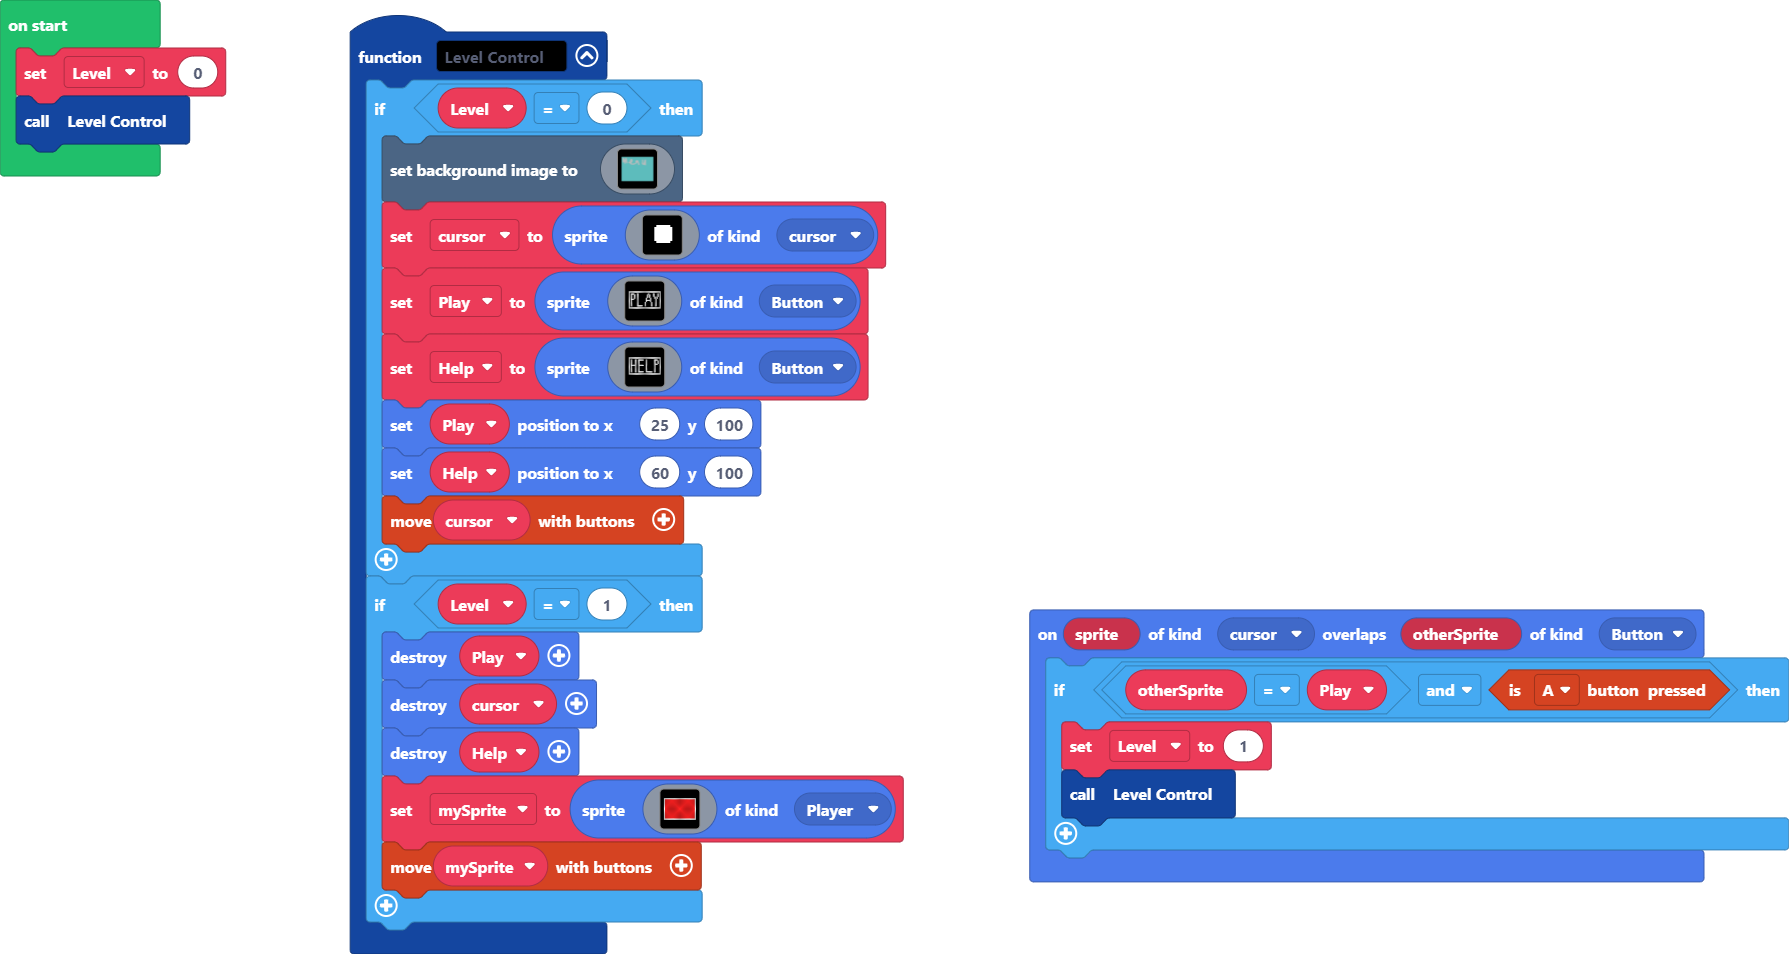
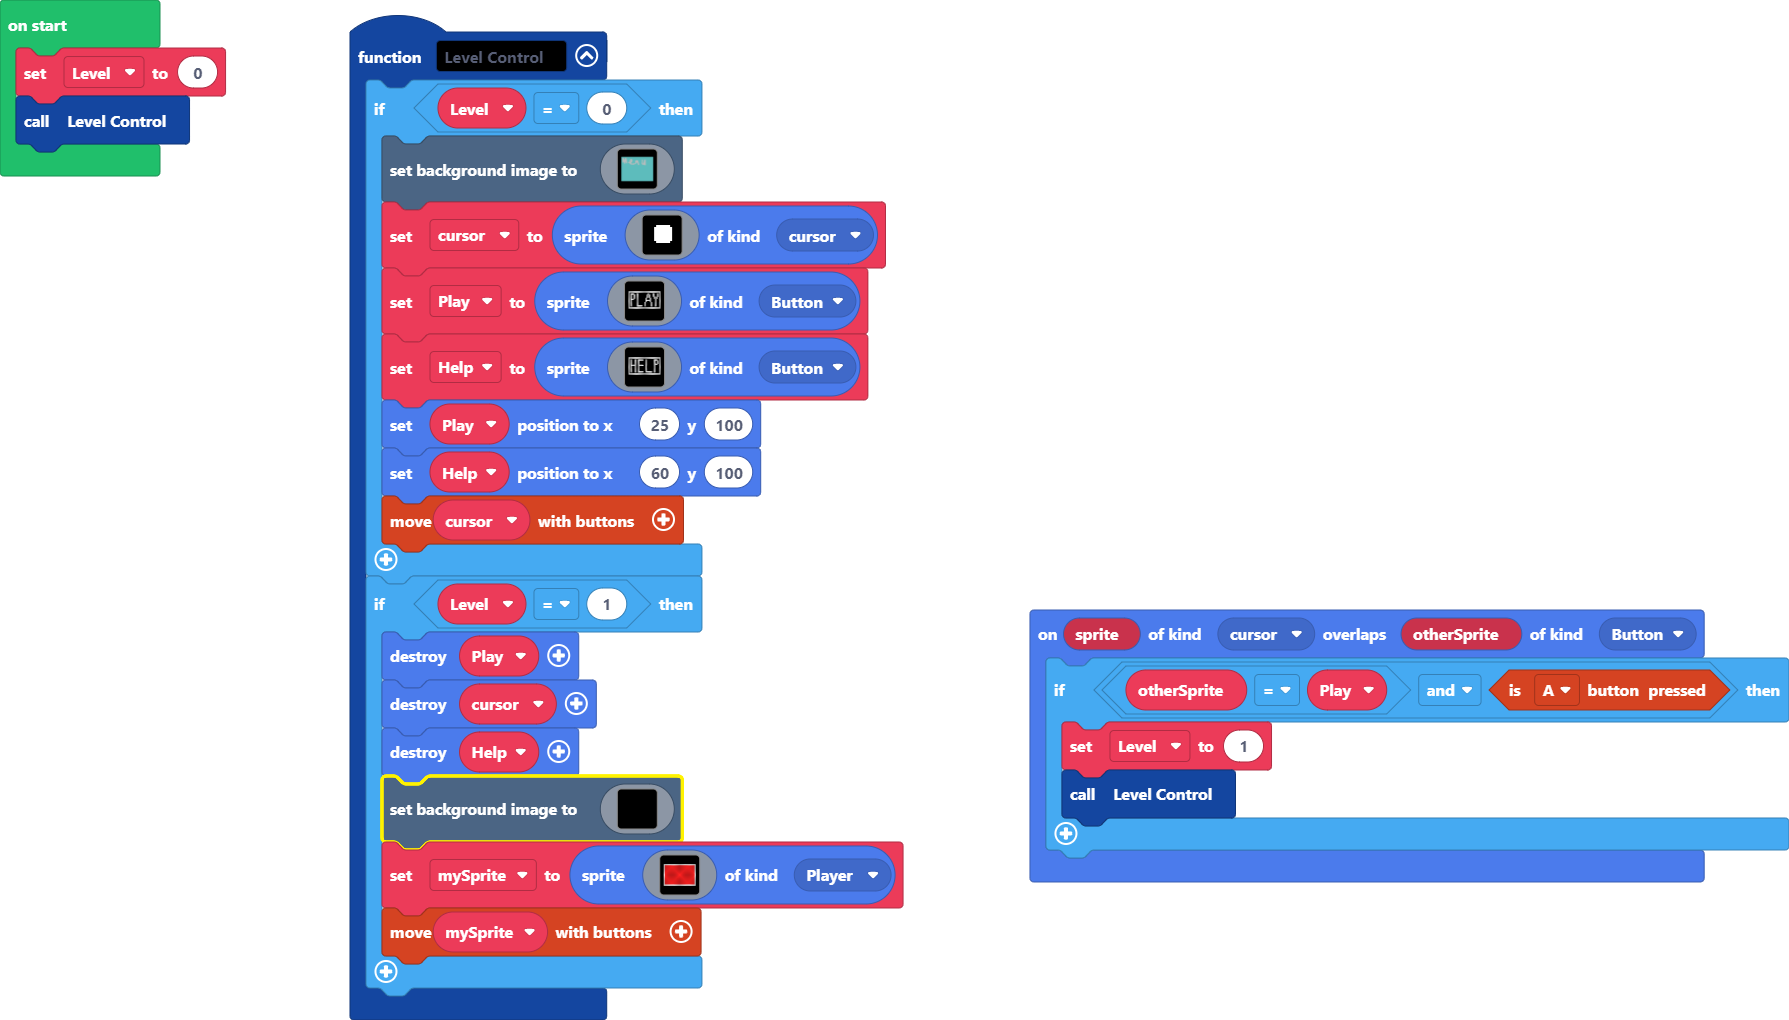
Update pxt.json, main.blocks, main.ts

Changed region(s): [[0.1845, 0.0304, 0.5226, 0.9727], [0.5534, 0.5776, 1.0, 0.9423], [0.0, 0.0, 0.123, 0.2128]]

diff --git a/main.ts b/main.ts
@@ -224,6 +224,128 @@ function Level_Control () {
         Play.destroy()
         cursor.destroy()
         Help.destroy()
+        scene.setBackgroundImage(img`
+            ................................................................................................................................................................
+            ................................................................................................................................................................
+            ................................................................................................................................................................
+            ................................................................................................................................................................
+            ................................................................................................................................................................
+            ................................................................................................................................................................
+            ................................................................................................................................................................
+            ................................................................................................................................................................
+            ................................................................................................................................................................
+            ................................................................................................................................................................
+            ................................................................................................................................................................
+            ................................................................................................................................................................
+            ................................................................................................................................................................
+            ................................................................................................................................................................
+            ................................................................................................................................................................
+            ................................................................................................................................................................
+            ................................................................................................................................................................
+            ................................................................................................................................................................
+            ................................................................................................................................................................
+            ................................................................................................................................................................
+            ................................................................................................................................................................
+            ................................................................................................................................................................
+            ................................................................................................................................................................
+            ................................................................................................................................................................
+            ................................................................................................................................................................
+            ................................................................................................................................................................
+            ................................................................................................................................................................
+            ................................................................................................................................................................
+            ................................................................................................................................................................
+            ................................................................................................................................................................
+            ................................................................................................................................................................
+            ................................................................................................................................................................
+            ................................................................................................................................................................
+            ................................................................................................................................................................
+            ................................................................................................................................................................
+            ................................................................................................................................................................
+            ................................................................................................................................................................
+            ................................................................................................................................................................
+            ................................................................................................................................................................
+            ................................................................................................................................................................
+            ................................................................................................................................................................
+            ................................................................................................................................................................
+            ................................................................................................................................................................
+            ................................................................................................................................................................
+            ................................................................................................................................................................
+            ................................................................................................................................................................
+            ................................................................................................................................................................
+            ................................................................................................................................................................
+            ................................................................................................................................................................
+            ................................................................................................................................................................
+            ................................................................................................................................................................
+            ................................................................................................................................................................
+            ................................................................................................................................................................
+            ................................................................................................................................................................
+            ................................................................................................................................................................
+            ................................................................................................................................................................
+            ................................................................................................................................................................
+            ................................................................................................................................................................
+            ................................................................................................................................................................
+            ................................................................................................................................................................
+            ................................................................................................................................................................
+            ................................................................................................................................................................
+            ................................................................................................................................................................
+            ................................................................................................................................................................
+            ................................................................................................................................................................
+            ................................................................................................................................................................
+            ................................................................................................................................................................
+            ................................................................................................................................................................
+            ................................................................................................................................................................
+            ................................................................................................................................................................
+            ................................................................................................................................................................
+            ................................................................................................................................................................
+            ................................................................................................................................................................
+            ................................................................................................................................................................
+            ................................................................................................................................................................
+            ................................................................................................................................................................
+            ................................................................................................................................................................
+            ................................................................................................................................................................
+            ................................................................................................................................................................
+            ................................................................................................................................................................
+            ................................................................................................................................................................
+            ................................................................................................................................................................
+            ................................................................................................................................................................
+            ................................................................................................................................................................
+            ................................................................................................................................................................
+            ................................................................................................................................................................
+            ................................................................................................................................................................
+            ................................................................................................................................................................
+            ................................................................................................................................................................
+            ................................................................................................................................................................
+            ................................................................................................................................................................
+            ................................................................................................................................................................
+            ................................................................................................................................................................
+            ................................................................................................................................................................
+            ................................................................................................................................................................
+            ................................................................................................................................................................
+            ................................................................................................................................................................
+            ................................................................................................................................................................
+            ................................................................................................................................................................
+            ................................................................................................................................................................
+            ................................................................................................................................................................
+            ................................................................................................................................................................
+            ................................................................................................................................................................
+            ................................................................................................................................................................
+            ................................................................................................................................................................
+            ................................................................................................................................................................
+            ................................................................................................................................................................
+            ................................................................................................................................................................
+            ................................................................................................................................................................
+            ................................................................................................................................................................
+            ................................................................................................................................................................
+            ................................................................................................................................................................
+            ................................................................................................................................................................
+            ................................................................................................................................................................
+            ................................................................................................................................................................
+            ................................................................................................................................................................
+            ................................................................................................................................................................
+            ................................................................................................................................................................
+            ................................................................................................................................................................
+            ................................................................................................................................................................
+            `)
         mySprite = sprites.create(img`
             ..............................
             ..............................
